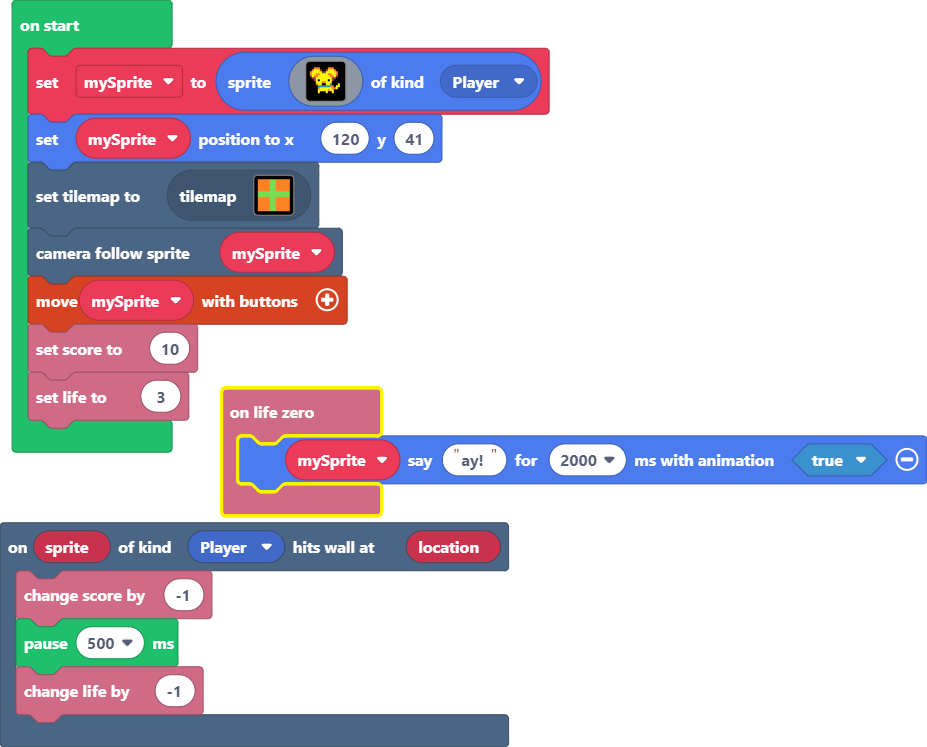
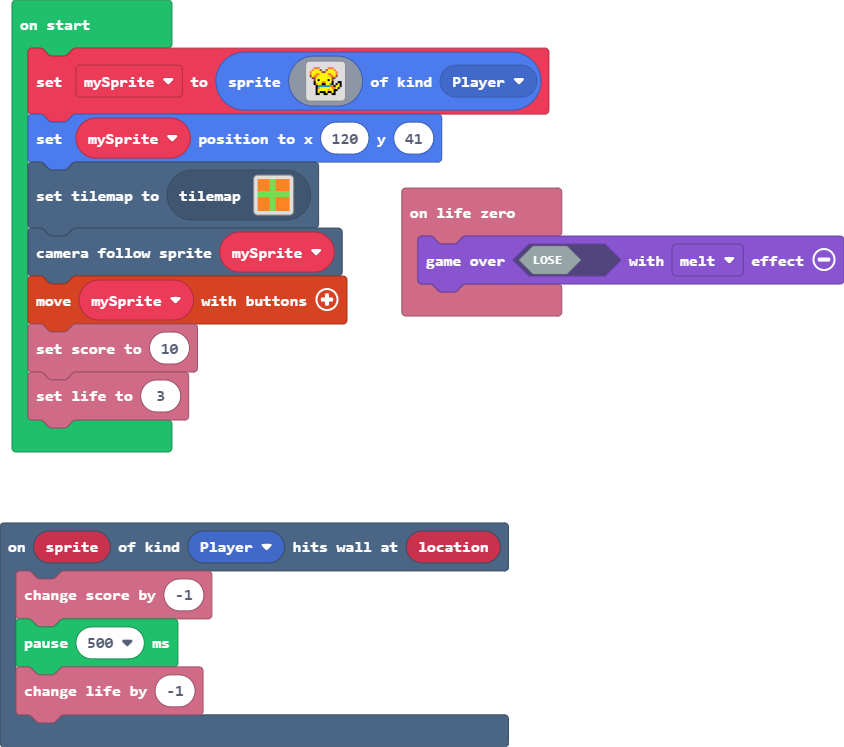
Update pxt.json, main.blocks, main.ts

Changed region(s): [[0.0, 0.0, 1.0, 0.9545], [0.4621, 0.2463, 1.0, 0.4311], [0.5237, 0.9545, 0.6161, 1.0]]

diff --git a/main.ts b/main.ts
@@ -4,10 +4,9 @@ scene.onHitWall(SpriteKind.Player, function (sprite, location) {
     info.changeLifeBy(-1)
 })
 info.onLifeZero(function () {
-    mySprite.sayText("ay!", 2000, true)
+    game.over(false, effects.melt)
 })
-let mySprite: Sprite = null
-mySprite = sprites.create(img`
+let mySprite = sprites.create(img`
     . . 4 4 4 . . . . 4 4 4 . . . . 
     . 4 5 5 5 e . . e 5 5 5 4 . . . 
     4 5 5 5 5 5 e e 5 5 5 5 5 4 . . 
